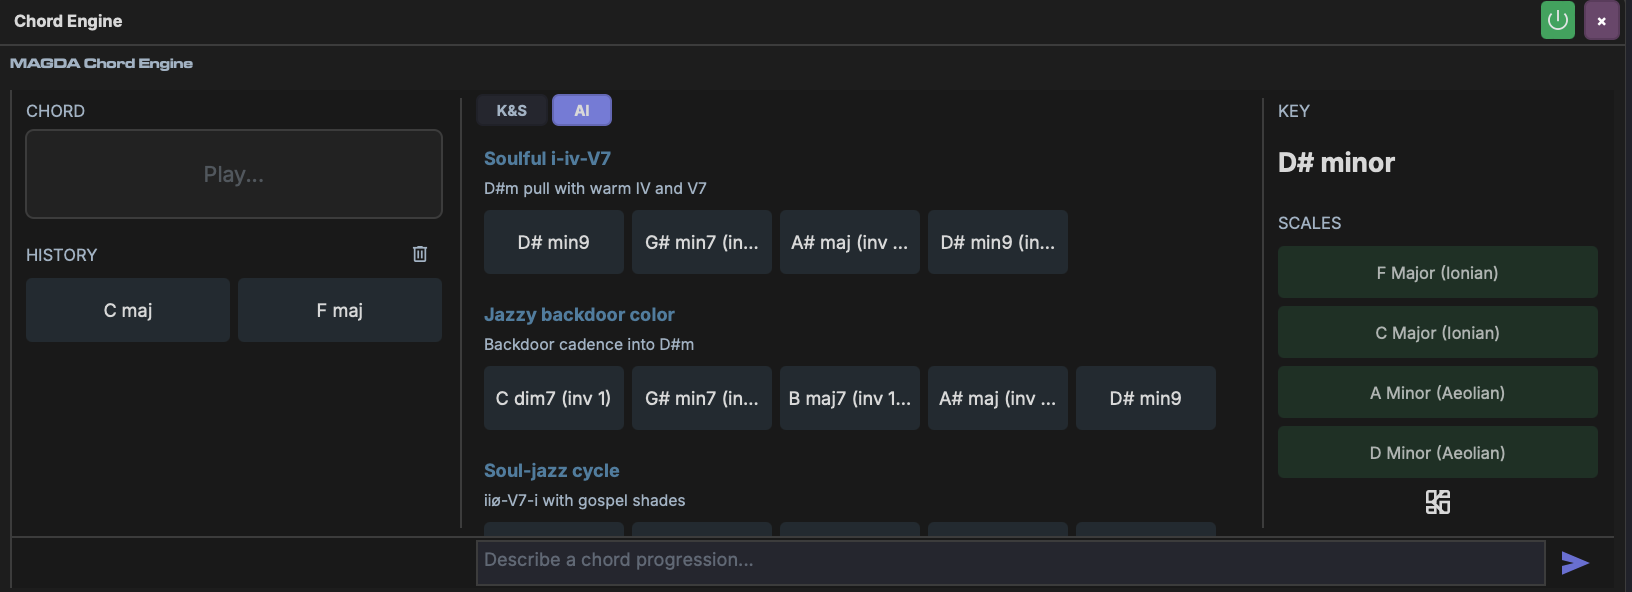
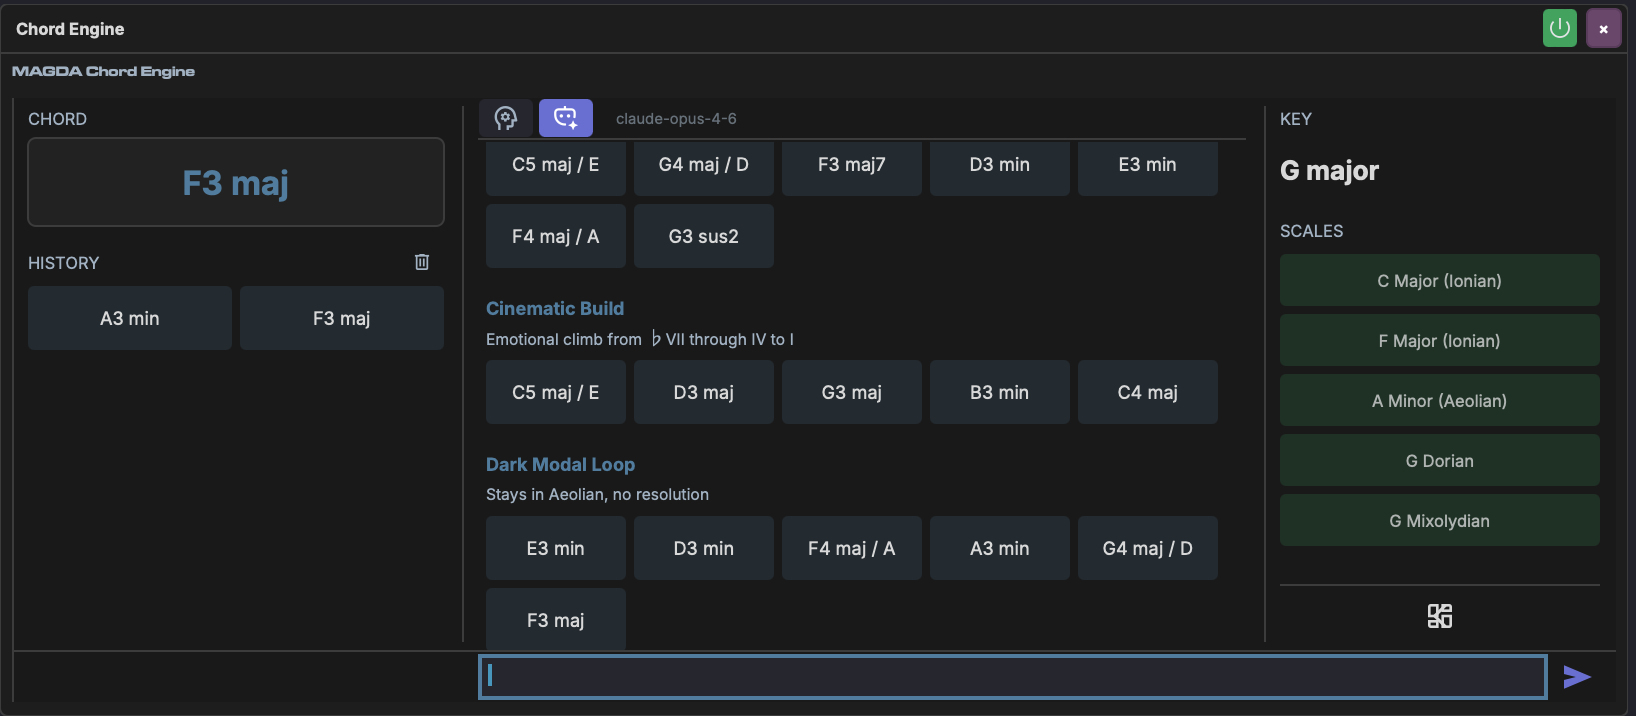
Update manual: add 4OSC docs, groove/swing, transport, AI settings, and refresh screenshots
New pages:
- devices/4osc.md — full 4OSC synth documentation with all tabs and internal mod matrix

Updated pages:
- transport.md — time signature editing, metronome count-in with pre-roll options
- clips.md — groove & swing section (inspector picker, AI /groove command, DSL)
- devices/built-in.md — 4OSC entry links to dedicated page
- devices/chord-engine.md — updated K&S, AI, and piano roll screenshots
- panels/ai-assistant.md — multi-provider AI Settings dialog, local llama.cpp, DSL console screenshot
- panels/chord-panel.md — updated screenshots to match chord engine
- modulation/overview.md — global macro/mod panel screenshot, internal device modulation
- modulation/modulators.md — global track-level modulator description and screenshot
- interface/menus.md — add AI Settings to Settings menu
- interface/preferences.md — point AI section to new dedicated dialog
- mkdocs.yml — add 4OSC Synth to nav

New screenshots: 4osc-osc, 4osc-lfo, count-in, time-signature, groove-ai,
groove-inspector, chord-engine-pianoroll, chord-engine-ks, ai-settings,
dsl-repl, global-macros-mods
Updated screenshots: chord-engine-ai, ai-assistant

diff --git a/manual/docs/devices/4osc.md b/manual/docs/devices/4osc.md
@@ -1,0 +1,121 @@
+# 4OSC Synth
+
+The 4OSC Synth is a four-oscillator subtractive synthesizer provided by the Tracktion Engine. It offers a full synthesis signal path with oscillators, filters, envelopes, LFOs, effects, and an internal modulation matrix.
+
+## Overview
+
+![4OSC Synth — OSC Tab](../assets/images/devices/4osc-osc.png)
+
+The 4OSC interface is organized into six tabs:
+
+| Tab | Content |
+|-----|---------|
+| **OSC** | Four oscillators with wave shape, tuning, level, pulse width, detune, spread, pan, and unison voices |
+| **Filter** | Multimode filter with cutoff, resonance, key tracking, velocity, and a dedicated filter envelope |
+| **Amp** | Amplitude envelope (ADSR) with velocity sensitivity and analog mode |
+| **Mod Env** | Two modulation envelopes with ADSR controls and mod destination assignments |
+| **LFO** | Two LFOs with wave shape, rate, depth, tempo sync, and mod destination assignments |
+| **FX** | Built-in distortion, reverb, delay, and chorus effects |
+
+## OSC Tab
+
+Each of the four oscillators has:
+
+| Parameter | Description |
+|-----------|-------------|
+| **Wave Shape** | Sine, triangle, square, sawtooth, pulse, noise |
+| **Tune** | Coarse tuning in semitones |
+| **Fine** | Fine tuning in cents |
+| **Level** | Oscillator volume in dB |
+| **Pulse Width** | Pulse width for pulse/square waves |
+| **Detune** | Unison detune amount |
+| **Spread** | Stereo spread of unison voices |
+| **Pan** | Stereo position |
+| **Voices** | Number of unison voices |
+
+Below the oscillators are global controls:
+
+| Parameter | Description |
+|-----------|-------------|
+| **Mode** | Mono, Legato, or Poly voice mode |
+| **Voices** | Maximum polyphony (poly mode) |
+| **Legato** | Legato glide time |
+| **Master Level** | Master output level in dB |
+
+## Filter Tab
+
+A multimode filter with its own envelope:
+
+- **Type** — Low-pass, high-pass, band-pass, notch
+- **Slope** — 12 dB or 24 dB per octave
+- **Freq** — Cutoff frequency
+- **Resonance** — Filter resonance
+- **Key Track** — How much the cutoff follows the note pitch
+- **Velocity** — How much velocity affects the cutoff
+- **Amount** — Filter envelope depth
+
+The filter envelope has independent Attack, Decay, Sustain, and Release controls.
+
+## Amp Tab
+
+The amplitude envelope shapes the volume of each note:
+
+- **Attack, Decay, Sustain, Release** — Standard ADSR
+- **Velocity** — How much velocity affects the volume
+- **Analog** — Adds subtle per-voice variation for an analog feel
+
+## Mod Env Tab
+
+Two modulation envelopes (Env 1 and Env 2) that can be routed to any synth parameter via the internal mod matrix. Each has Attack, Decay, Sustain, and Release controls.
+
+### Assigning Mod Envelope Destinations
+
+Below the envelope controls, use the **+ Env 1** and **+ Env 2** buttons to assign a modulation destination:
+
+1. Click **+ Env 1** (or **+ Env 2**)
+2. Select the destination parameter from the dropdown
+3. Click **Add**
+4. Drag the depth slider to set the modulation amount (-100% to +100%)
+5. Click **X** to remove an assignment
+
+## LFO Tab
+
+![4OSC Synth — LFO Tab](../assets/images/devices/4osc-lfo.png)
+
+Two LFOs with independent controls:
+
+| Parameter | Description |
+|-----------|-------------|
+| **Wave** | Sine, triangle, square, sawtooth, sample & hold, noise |
+| **Rate** | LFO speed |
+| **Depth** | LFO intensity |
+| **Sync** | Lock rate to project tempo |
+
+### Assigning LFO Destinations
+
+Below the LFO controls, use the **+ LFO 1** and **+ LFO 2** buttons to assign modulation destinations. The workflow is the same as for mod envelopes:
+
+1. Click **+ LFO 1** (or **+ LFO 2**)
+2. Select the destination parameter from the dropdown
+3. Click **Add**
+4. Drag the depth slider to set the modulation amount (-100% to +100%)
+5. Click **X** to remove an assignment
+
+Each assignment appears as a row showing the source and destination (e.g. "LFO 1 > Filter Freq") with a depth slider.
+
+## FX Tab
+
+Built-in effects that can be toggled on or off independently:
+
+| Effect | Parameters |
+|--------|------------|
+| **Distortion** | Amount |
+| **Reverb** | Size, Damping, Width, Mix |
+| **Delay** | Feedback, Crossfeed, Mix |
+| **Chorus** | Speed, Depth, Width, Mix |
+
+## Internal Modulation vs Track Modulators
+
+The 4OSC's internal mod matrix (LFO and Mod Env assignments) operates inside the synth's audio processing. This is separate from MAGDA's track-level [modulators](../modulation/overview.md), which are external LFOs and curves that can target any device parameter on the track.
+
+Both systems can be used simultaneously — for example, you might use the 4OSC's internal LFO 1 for filter wobble while using a track-level LFO for panning.

diff --git a/manual/docs/panels/ai-assistant.md b/manual/docs/panels/ai-assistant.md
@@ -28,12 +28,45 @@ The assistant is **context-aware** — it knows which tracks, clips, and devices
 
 ### Setup
 
-The AI Assistant uses the OpenAI API. You'll need an API key to get started.
+![AI Settings](../assets/images/panels/ai-settings.png){ width="400" }
 
-1. Go to **Settings > Preferences > AI**
-2. Enter your OpenAI API key
+The AI Assistant supports multiple LLM providers. Open the AI Settings dialog from **Settings > AI Settings** to configure your providers.
 
-If you don't have an API key, you can generate one at [platform.openai.com/api-keys](https://platform.openai.com/api-keys).
+The settings dialog has three tabs:
+
+| Tab | Description |
+|-----|-------------|
+| **Cloud** | Configure cloud API providers (Anthropic, OpenAI, DeepSeek, Gemini, OpenRouter) |
+| **Local** | Configure the embedded llama.cpp engine with a local GGUF model |
+| **Config** | Mode selection (Local / Cloud / Hybrid), provider, and optimization strategy |
+
+To add a cloud provider:
+
+1. Select the **Provider** from the dropdown
+2. Enter your **API Key**
+3. Click **Add** (or **Test** to verify the key first)
+
+Registered providers appear in the list below. You can add multiple providers and switch between them. Click **X** to remove a provider.
+
+#### Local Tab
+
+The Local tab configures the embedded **llama.cpp** inference engine for fully offline AI. MAGDA includes a one-click downloader for the custom **magda-v0.3.0** GGUF model, fine-tuned for DAW operations.
+
+- **Download Model** — Downloads the MAGDA model from HuggingFace with a progress indicator
+- **Model Path** — Path to any `.gguf` model file (use the file browser to select a custom model)
+- **GPU Layers** — Number of layers to offload to the GPU (-1 = all layers, for Metal/CUDA acceleration)
+- **Context Size** — Context window size (default 4096)
+- **Load / Unload** — Load the model into memory or unload it to free resources
+
+#### Config Tab
+
+The Config tab selects which providers the AI agents use:
+
+| Setting | Description |
+|---------|-------------|
+| **Mode** | **Local** (all agents use embedded llama), **Cloud** (all agents use a cloud provider), or **Hybrid** (mix of local and cloud) |
+| **Provider** | Which cloud provider to use (from the registered providers in the Cloud tab) |
+| **Optimize** | **Cost** (prefer local where possible), **Speed** (prefer fastest), or **Quality** (prefer most capable model) |
 
 ### Usage Tips
 
@@ -43,6 +76,8 @@ If you don't have an API key, you can generate one at [platform.openai.com/api-k
 - Prefix a message with `/dsl` to execute DSL directly from the AI chat without making an AI call
 
 ## DSL Tab
+
+![DSL Console](../assets/images/panels/dsl-repl.png){ width="300" }
 
 The DSL tab provides a code editor with **syntax highlighting** for the MAGDA DSL. It's designed for users who want to script DAW operations directly without going through the AI.
 

diff --git a/manual/docs/clips.md b/manual/docs/clips.md
@@ -122,6 +122,42 @@ Right-click an audio clip to access slice operations. These split the clip into 
 
 When Beat or Warp mode is active, MAGDA uses the **SoundTouch** algorithm for time-stretching.
 
+## Groove & Swing
+
+Groove templates add a human feel to MIDI clips by shifting note timing away from the strict grid.
+
+![Groove Inspector](assets/images/panels/groove-inspector.png){ width="300" }
+
+### Applying a Groove
+
+1. Select a MIDI clip
+2. In the **Inspector**, find the **Groove** section
+3. Click the dropdown to open the groove picker
+4. Select a category (Swing, Push Swing, Pull Swing, Push Snare, Pull Snare, Timing, Custom) and a template
+
+The groove picker shows categories on the left and templates on the right. Templates include standard swing amounts (e.g. "PushSwing 1/4 05%" through "PushSwing 1/4 50%").
+
+### Creating Grooves with AI
+
+You can create custom groove templates using the `/groove` slash command in the AI Assistant:
+
+![Groove via AI](assets/images/panels/groove-ai.png){ width="400" }
+
+```
+/groove funky 16th
+```
+
+The AI generates a groove template based on your description. Created templates appear in the **Custom** category of the groove picker.
+
+### Groove via DSL
+
+You can also list and apply grooves using the DSL console:
+
+```
+groove.list()
+groove.set(template="Basic 8th Swing", strength=0.5)
+```
+
 ## Freeze, Bounce, and Render
 
 These operations render a track or clip's output to audio, useful for reducing CPU load or committing effects.

diff --git a/manual/docs/transport.md b/manual/docs/transport.md
@@ -47,7 +47,30 @@ The tempo (BPM) is displayed in the transport bar. You can change it by:
 
 ## Time Signature
 
-The time signature is displayed alongside the tempo in the transport bar.
+![Time Signature](assets/images/transport/time-signature.png){ width="120" }
+
+The time signature is displayed below the tempo in the transport bar. You can change it by:
+
+- Clicking and dragging the numerator or denominator up or down
+- Clicking the value and typing a new number
+
+## Metronome & Count-In
+
+The metronome (click track) can be toggled on or off using the metronome icon in the transport bar.
+
+![Count-In Menu](assets/images/transport/count-in.png){ width="200" }
+
+**Right-click** the metronome icon to set a **count-in** (pre-roll) before recording starts:
+
+| Option | Description |
+|--------|-------------|
+| **Off** | Recording starts immediately |
+| **1 Beat** | One beat of click before recording |
+| **2 Beats** | Two beats of click before recording |
+| **1 Bar** | One full bar of click before recording |
+| **2 Bars** | Two full bars of click before recording |
+
+During count-in, the metronome plays but recording does not begin until the count-in period is complete.
 
 ## Grid & Snap
 

diff --git a/manual/docs/modulation/overview.md b/manual/docs/modulation/overview.md
@@ -28,6 +28,18 @@ Modulators and macros are scoped to their parent track. A modulator on Track 1 c
 - A single modulator can drive **multiple target parameters** simultaneously
 - A single parameter can be driven by **multiple modulation sources**, with their effects combined
 
+## Global Modulator & Macro Panel
+
+![Global Macros & Modulators](../assets/images/modulation/global-macros-mods.png){ width="400" }
+
+Each track's modulators and macros are managed from the modulation panel in the bottom section. The panel shows macro knobs on the left and active modulators (LFO, Curve) on the right, with page navigation for both.
+
+## Internal Device Modulation
+
+Some built-in devices have their own internal modulation routing that operates inside the device's audio processing. For example, the [4OSC Synth](../devices/4osc.md) has two LFOs and two modulation envelopes that can be routed to any of its parameters via an internal mod matrix.
+
+Internal modulation and track-level modulation are independent and can be used together.
+
 ## Linking
 
 Parameters are connected to modulation sources using MAGDA's link mode. See [Linking Parameters](linking.md) for the workflow.

diff --git a/manual/docs/panels/chord-panel.md b/manual/docs/panels/chord-panel.md
@@ -3,7 +3,7 @@
 !!! note "Chord Engine device"
     The Chord Panel documents the standalone bottom-panel view. The same functionality is also available as a device on any instrument track — see [Chord Engine](../devices/chord-engine.md).
 
-![Chord Panel — Browse Mode](../assets/images/panels/chord-panel.png)
+![Chord Panel — K&S Mode](../assets/images/devices/chord-engine-ks.png)
 
 The Chord Panel is a real-time chord analysis and suggestion tool. It detects chords as you play, identifies the musical key, lists matching scales, and suggests what chord to play next.
 
@@ -77,7 +77,7 @@ The **Browse** button at the bottom of the Key/Scale column opens the scale expl
 
 ## AI Mode
 
-![Chord Panel — AI Mode](../assets/images/panels/chord-panel-ai.png)
+![Chord Panel — AI Mode](../assets/images/devices/chord-engine-ai.png)
 
 Switch to the **AI** tab to generate chord progressions from text descriptions. Type a prompt describing the style or mood (e.g. "Soulful I-iv-V7", "Jazzy backdoor voicing") and the AI returns labelled progressions as clickable chord buttons. Chords can be auditioned by clicking or dragged onto the Piano Roll.
 

diff --git a/manual/docs/devices/chord-engine.md b/manual/docs/devices/chord-engine.md
@@ -18,7 +18,7 @@ The device has two tabs: **K&S** (Krumhansl-Schmuckler analysis and suggestions)
 
 ## K&S Tab
 
-![Chord Engine — K&S Tab](../assets/images/devices/chord-engine-browse.png)
+![Chord Engine — K&S Tab](../assets/images/devices/chord-engine-ks.png)
 
 The K&S tab uses the Krumhansl-Schmuckler algorithm to detect the key from your playing and generate chord suggestions from music theory rules. The interface has three columns:
 
@@ -122,6 +122,8 @@ flowchart TD
 ```
 
 ## Chord Timeline
+
+![Chord Timeline in Piano Roll](../assets/images/devices/chord-engine-pianoroll.png)
 
 When a Chord Engine is present on a track, the Piano Roll automatically shows a **chord row** above the note grid. This row displays chord annotations that are linked to their MIDI notes.
 

diff --git a/manual/docs/modulation/modulators.md b/manual/docs/modulation/modulators.md
@@ -1,6 +1,10 @@
 # Modulators
 
-Modulators are signal generators that modulate device parameters over time. Each device and rack can have its own set of modulators.
+Modulators are signal generators that modulate device parameters over time. Each track has a global modulator panel that can target any parameter on any device in the track's chain.
+
+Modulators are managed from the modulation panel at the bottom of the track chain. Click the **+** button to add a new modulator. The panel shows active modulators alongside the macro knobs.
+
+![Global Macros & Modulators](../assets/images/modulation/global-macros-mods.png){ width="500" }
 
 ## LFO
 

diff --git a/manual/docs/devices/built-in.md b/manual/docs/devices/built-in.md
@@ -16,7 +16,7 @@ These processors are provided by the Tracktion Engine and are available in every
 | Device | Description |
 |--------|-------------|
 | **Sampler** | 8-voice sample player with ADSR and pitch controls. See [Sampler](sampler.md). |
-| **4OSC Synth** | Four-oscillator subtractive synthesizer |
+| **4OSC Synth** | Four-oscillator subtractive synthesizer with internal mod matrix. See [4OSC Synth](4osc.md). |
 | **EQ** | Parametric equalizer |
 | **Compressor** | Dynamics compressor |
 | **Reverb** | Algorithmic reverb |

diff --git a/manual/docs/interface/preferences.md b/manual/docs/interface/preferences.md
@@ -32,9 +32,9 @@ Open the Preferences dialog from **Settings > Preferences**. The dialog has six 
 
 ## AI
 
-- **API key** — Enter your API key to enable the AI Assistant
+AI provider configuration has moved to a dedicated dialog. Open it from **Settings > AI Settings**.
 
-See [AI Assistant](../panels/ai-assistant.md) for more on setting up and using the AI chat.
+See [AI Assistant — Setup](../panels/ai-assistant.md#setup) for details.
 
 ## Shortcuts
 

diff --git a/manual/docs/interface/menus.md b/manual/docs/interface/menus.md
@@ -80,6 +80,7 @@ Each track has a checkbox for each view mode: **Live**, **Arrange**, **Mix**, an
 | Item | Description |
 |------|-------------|
 | Preferences | Open the preferences dialog |
+| AI Settings | Open the AI settings dialog (see [AI Assistant — Setup](../panels/ai-assistant.md#setup)) |
 | Audio/MIDI Settings | Open audio and MIDI device configuration |
 | Plugin Settings | Open plugin settings (see [Plugin Settings](plugin-settings.md)) |
 
